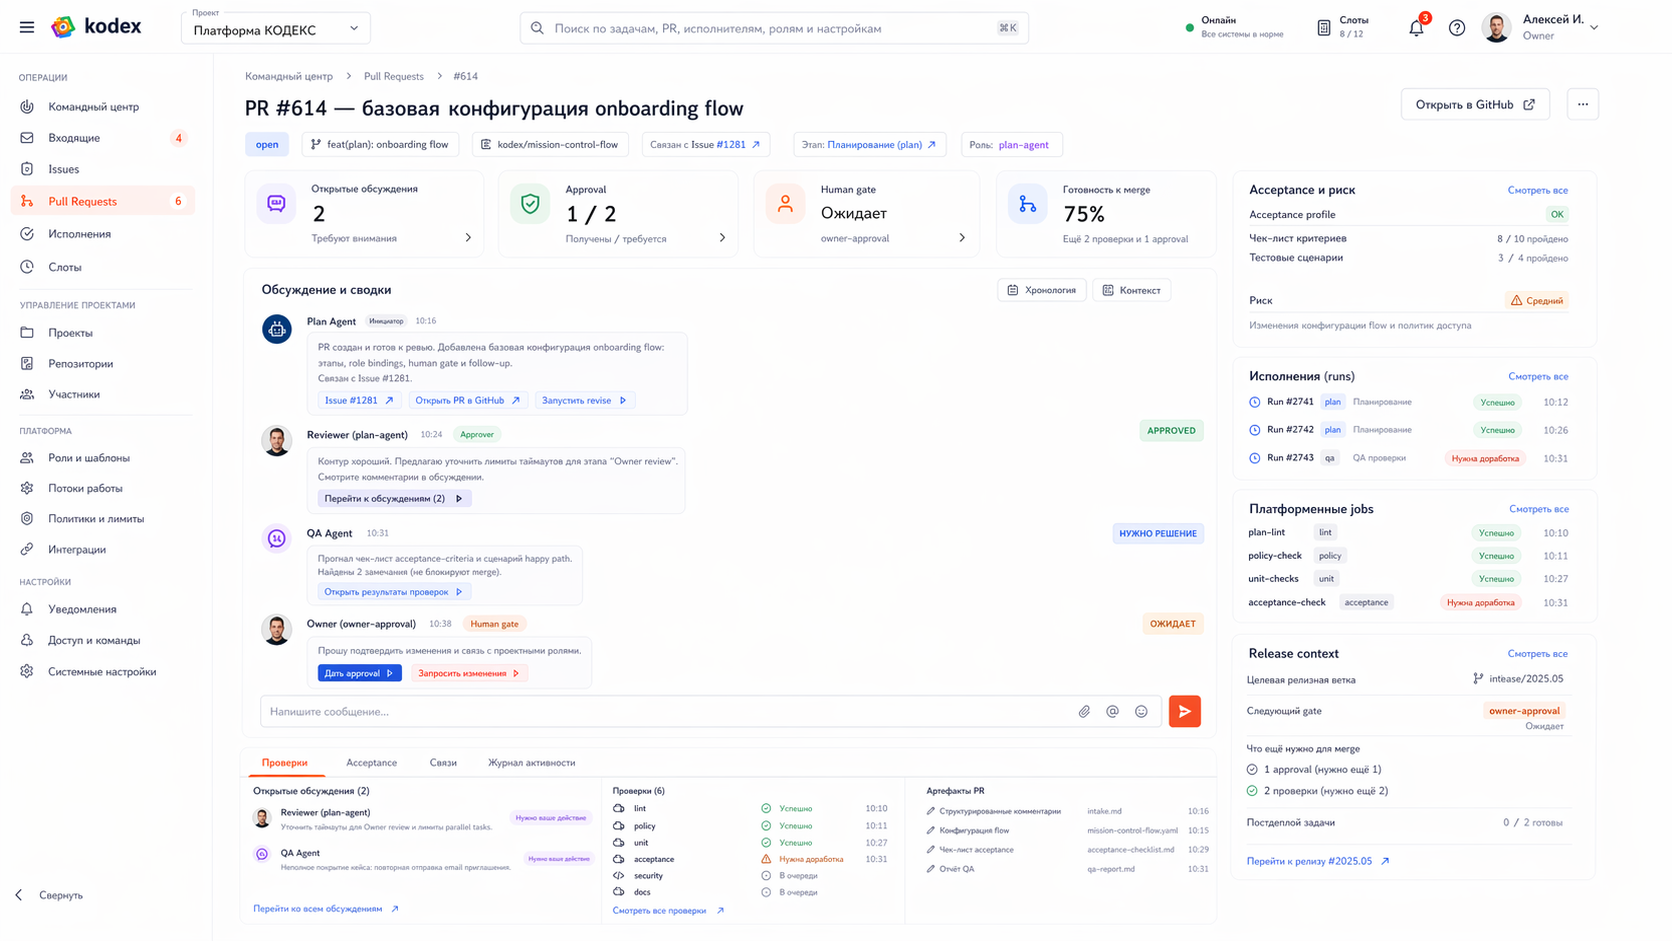
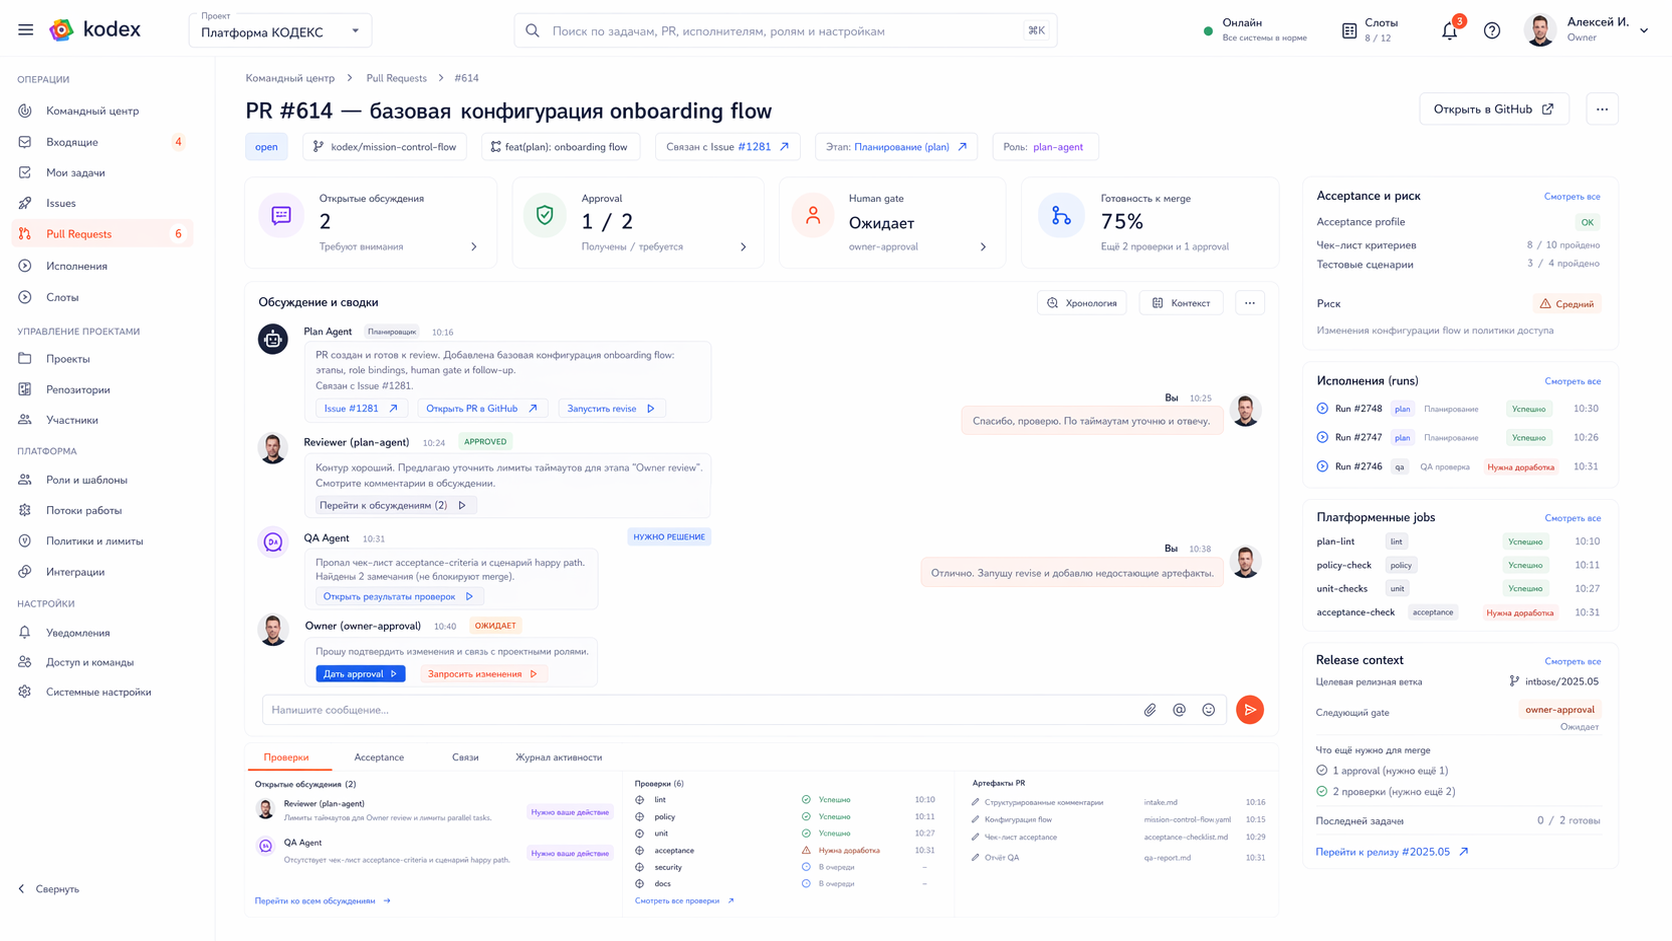
Refine second wave five screen batch

diff --git a/refactoring/18-workspaces-onboarding-and-operator-surfaces.md b/refactoring/18-workspaces-onboarding-and-operator-surfaces.md
@@ -112,6 +112,12 @@ approvals:
 
 При этом action badges не должны маскировать главный принцип экрана: diff review и thread-by-thread разбор остаются у провайдера.
 
+### 2.5. Контекст approval в рабочем пространстве `PR/MR`
+Если approval относится именно к `PR/MR`, экран должен показывать это явно:
+- связанный `PR/MR` визуально выделяется как объект решения;
+- основная контрастная action-кнопка ведёт к `PR/MR` у провайдера;
+- статусы `approved`, `нужно решение`, `ожидает` привязываются к конкретному сообщению, review-сводке или Human gate, а не висят как плавающие бейджи без контекста.
+
 ## 3. Командный центр
 
 ### 3.1. Что делает командный центр
@@ -178,6 +184,41 @@ approvals:
 - краткое объяснение, почему элемент попал во входящие;
 - evidence summary или краткий статус проверки;
 - явные действия: approval, ответ, переход в `run/job`, переход к настройке аккаунта или лимита.
+
+### 4.5. Как выбирается элемент входящего
+Основной паттерн работы со входящими:
+- клик по элементу списка открывает правую панель деталей;
+- список сам по себе не дублирует основные действия из правой панели;
+- если входящее требует решения по `PR/MR`, правая панель явно подсвечивает этот `PR/MR` и даёт контрастный переход к нему;
+- если входящее требует ответа, правая панель открывает текстовый или голосовой маршрут ответа, а не только набор формальных кнопок.
+
+### 4.6. Ответ текстом и голосом
+Если элемент требует ответа, а не формального approval, канонический паттерн такой:
+- пользователь выбирает действие `Ответить`;
+- платформа открывает модальный диалог ответа;
+- внутри модального диалога доступны текстовый ввод и голосовой захват;
+- после подтверждения ответ публикуется в нужный контекст: `Issue`, `PR/MR`, `run`, slot или другой связанный объект.
+
+### 4.7. Контекст approval во входящих
+Если входящее требует approval именно для `PR/MR`, правая панель должна показывать:
+- что approval относится к конкретному `PR/MR`;
+- компактную summary-сводку проверки;
+- контрастную основную кнопку перехода к `PR/MR`;
+- отдельное решение пользователя, если approval допускается прямо из платформы.
+
+### 4.8. Навигация по связанным сущностям
+В панели деталей входящего карточки связанных сущностей должны быть интерактивными:
+- агент, slot и `run` открываются как отдельные сущности платформы;
+- `Issue` и `PR/MR` ведут в соответствующие рабочие пространства или во внешний provider UI;
+- карточка не должна быть просто текстовой сводкой без перехода.
+
+## 4.9. Экран исполнений и slot-действия
+В операционном экране исполнений slot-контекст должен давать не только статус, но и явные действия:
+- `Продлить` lease slot;
+- `Освободить` slot;
+- `Перейти к slot`.
+
+Эти действия живут рядом с TTL и состоянием reuse, а не скрываются в общем меню.
 
 ## 5. Артефакты в UI
 

diff --git a/refactoring/images/wave5/06-inbox-and-approvals/screen.md b/refactoring/images/wave5/06-inbox-and-approvals/screen.md
@@ -19,13 +19,15 @@
 - верхняя лента категорий и счётчиков
 - основная очередь входящих с фильтрами
 - правая панель деталей выбранного элемента
-- action-кнопки и badges для переходов и решений
+- action-кнопки и badges для переходов и решений только в панели деталей
+- выделенный основной объект решения, если входящее относится к конкретному `PR/MR`
 
 ## Ключевые действия
 - открыть `Issue` или `PR/MR`
 - дать approval
-- ответить на запрос
+- ответить на запрос текстом или голосом через модальный диалог
 - перейти к `job` или `run`
+- перейти к агенту, slot и связанному `run` из панели деталей
 - открыть настройку аккаунта или лимитов
 - отметить элемент как обработанный
 
@@ -37,6 +39,7 @@
 - декоративный notification center без действий
 - чат как основной режим этого экрана
 - сырые логи и технический шум без следующего шага
+- дублирование главных действий одновременно в строке списка и в правой панели деталей
 
 ## Открытые вопросы
 - нет

diff --git a/refactoring/images/wave5/05-pr-workspace/screen.md b/refactoring/images/wave5/05-pr-workspace/screen.md
@@ -18,7 +18,7 @@
 ## Основные блоки
 - шапка `PR/MR` и контекст связанной задачи
 - верхняя summary-полоса review state
-- центральная лента обсуждения и review-сводки
+- центральная лента обсуждения и review-сводки с вашими сообщениями справа
 - правая колонка `Acceptance и риск`, `Исполнения`, `Платформенные jobs`, `Release context`
 - нижние вкладки `Проверки`, `Acceptance`, `Связи`, `Журнал активности`
 
@@ -37,6 +37,7 @@
 - полный diff review как замена провайдеру
 - сырые длинные логи
 - свободный canvas или graph view
+- неосмысленно висящие статусы `approved`/`ожидает`/`нужно решение` без привязки к конкретному контексту сообщения или gate
 
 ## Открытые вопросы
 - нет

diff --git a/refactoring/images/wave5/07-executions-jobs-slots/screen.md b/refactoring/images/wave5/07-executions-jobs-slots/screen.md
@@ -19,6 +19,7 @@
 - правая панель деталей выбранного элемента
 - карточка slot-контекста и связанных jobs
 - короткий хвост лога или error excerpt
+- отдельные slot-действия рядом с TTL и lease
 
 ## Ключевые действия
 - открыть связанный `Issue`
@@ -26,6 +27,8 @@
 - перейти к `job`
 - возобновить или повторно запустить выполнение
 - открыть связанный slot
+- продлить slot
+- освободить slot
 - посмотреть причину ожидания в очереди
 
 ## Источники данных
